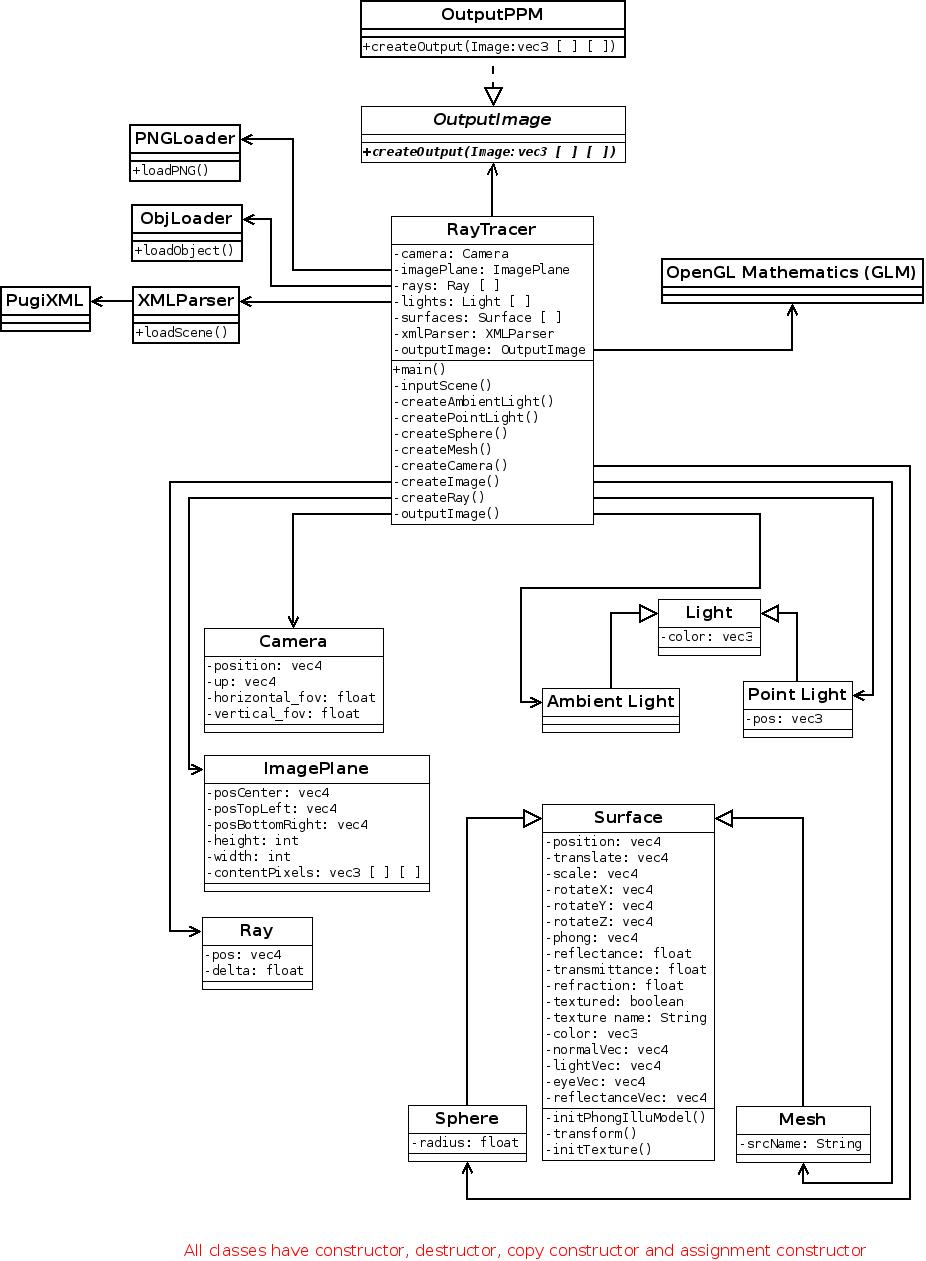
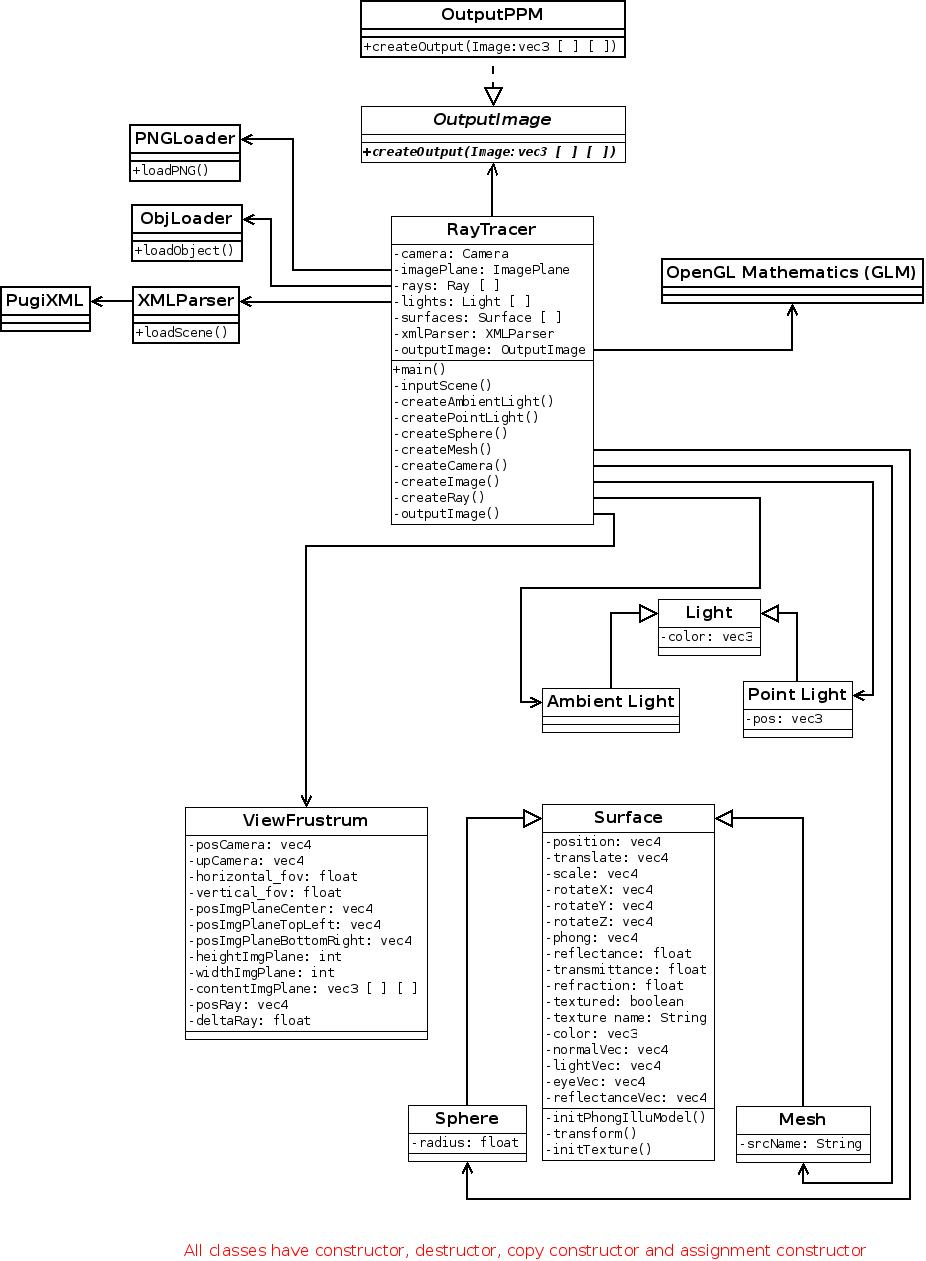
all instance vars for ViewFrustrum implemented

Changed region(s): [[0.1814, 0.3711, 0.3931, 0.8351], [0.4233, 0.0309, 0.4838, 0.0619], [0.514, 0.0309, 0.5443, 0.0619]]

diff --git a/ray_tracer/ViewFrustrum.cpp b/ray_tracer/ViewFrustrum.cpp
@@ -11,17 +11,33 @@
 using namespace std;
 
 Camera::Camera(){
-	position = glm::vec4 ( 0, 0, 0, 0 );
-	up = glm::vec4 ( 0, 1, 0, 0 );
+	posCamera = glm::vec4 ( 0, 0, 0, 0 );
+	upCamera = glm::vec4 ( 0, 1, 0, 0 );
 	horizontal_fov = 45;
 	vertical_fov = 45;
+	posImgPlaneCenter = glm::vec4 ( 0, 0, 0, 0);
+	posImgPlaneTopLeft = glm::vec4 ( 0, 0, 0, 0);
+	posImgPlaneBottomRight = glm::vec4 ( 0, 0, 0, 0);
+	heightImgPlane = 0;
+	widthImgPlane = 0;
+	//contentImgPlane;
+	posRay = glm::vec4 ( 0, 0, 0, 0);
+	deltaRay = 1;
 };
 Camera::~Camera(){ };
 Camera::Camera( const Camera& ){
-	position = glm::vec4 ( 0, 0, 0, 0 );
-	up = glm::vec4 ( 0, 1, 0, 0 );
+	posCamera = glm::vec4 ( 0, 0, 0, 0 );
+	upCamera = glm::vec4 ( 0, 1, 0, 0 );
 	horizontal_fov = 45;
 	vertical_fov = 45;
+	posImgPlaneCenter = glm::vec4 ( 0, 0, 0, 0);
+	posImgPlaneTopLeft = glm::vec4 ( 0, 0, 0, 0);
+	posImgPlaneBottomRight = glm::vec4 ( 0, 0, 0, 0);
+	heightImgPlane = 0;
+	widthImgPlane = 0;
+	//contentImgPlane;
+	posRay = glm::vec4 ( 0, 0, 0, 0);
+	deltaRay = 1;
 };
 Camera& Camera::operator=( const Camera& ){ return *this; };
 

diff --git a/ray_tracer/ViewFrustrum.h b/ray_tracer/ViewFrustrum.h
@@ -9,13 +9,24 @@
 #define VIEWFRUSTRUM_H_
 
 #include "../libs/glm/glm/fwd.hpp"
+#include "../libs/glm/glm/vec3.hpp"
 #include "../libs/glm/glm/vec4.hpp"
 
 class Camera{
-	glm::vec4 position;
-	glm::vec4 up;
+	glm::vec4 posCamera;
+	glm::vec4 upCamera;
 	float horizontal_fov;
 	float vertical_fov;
+	glm::vec4 posImgPlaneCenter;
+	glm::vec4 posImgPlaneTopLeft;
+	glm::vec4 posImgPlaneBottomRight;
+	int heightImgPlane;
+	int widthImgPlane;
+	//glm::vec3[][] contentImgPlane;
+	glm::vec4 posRay;
+	float deltaRay;
+
+
 
 	Camera( const Camera& );
 	Camera& operator=( const Camera& );
